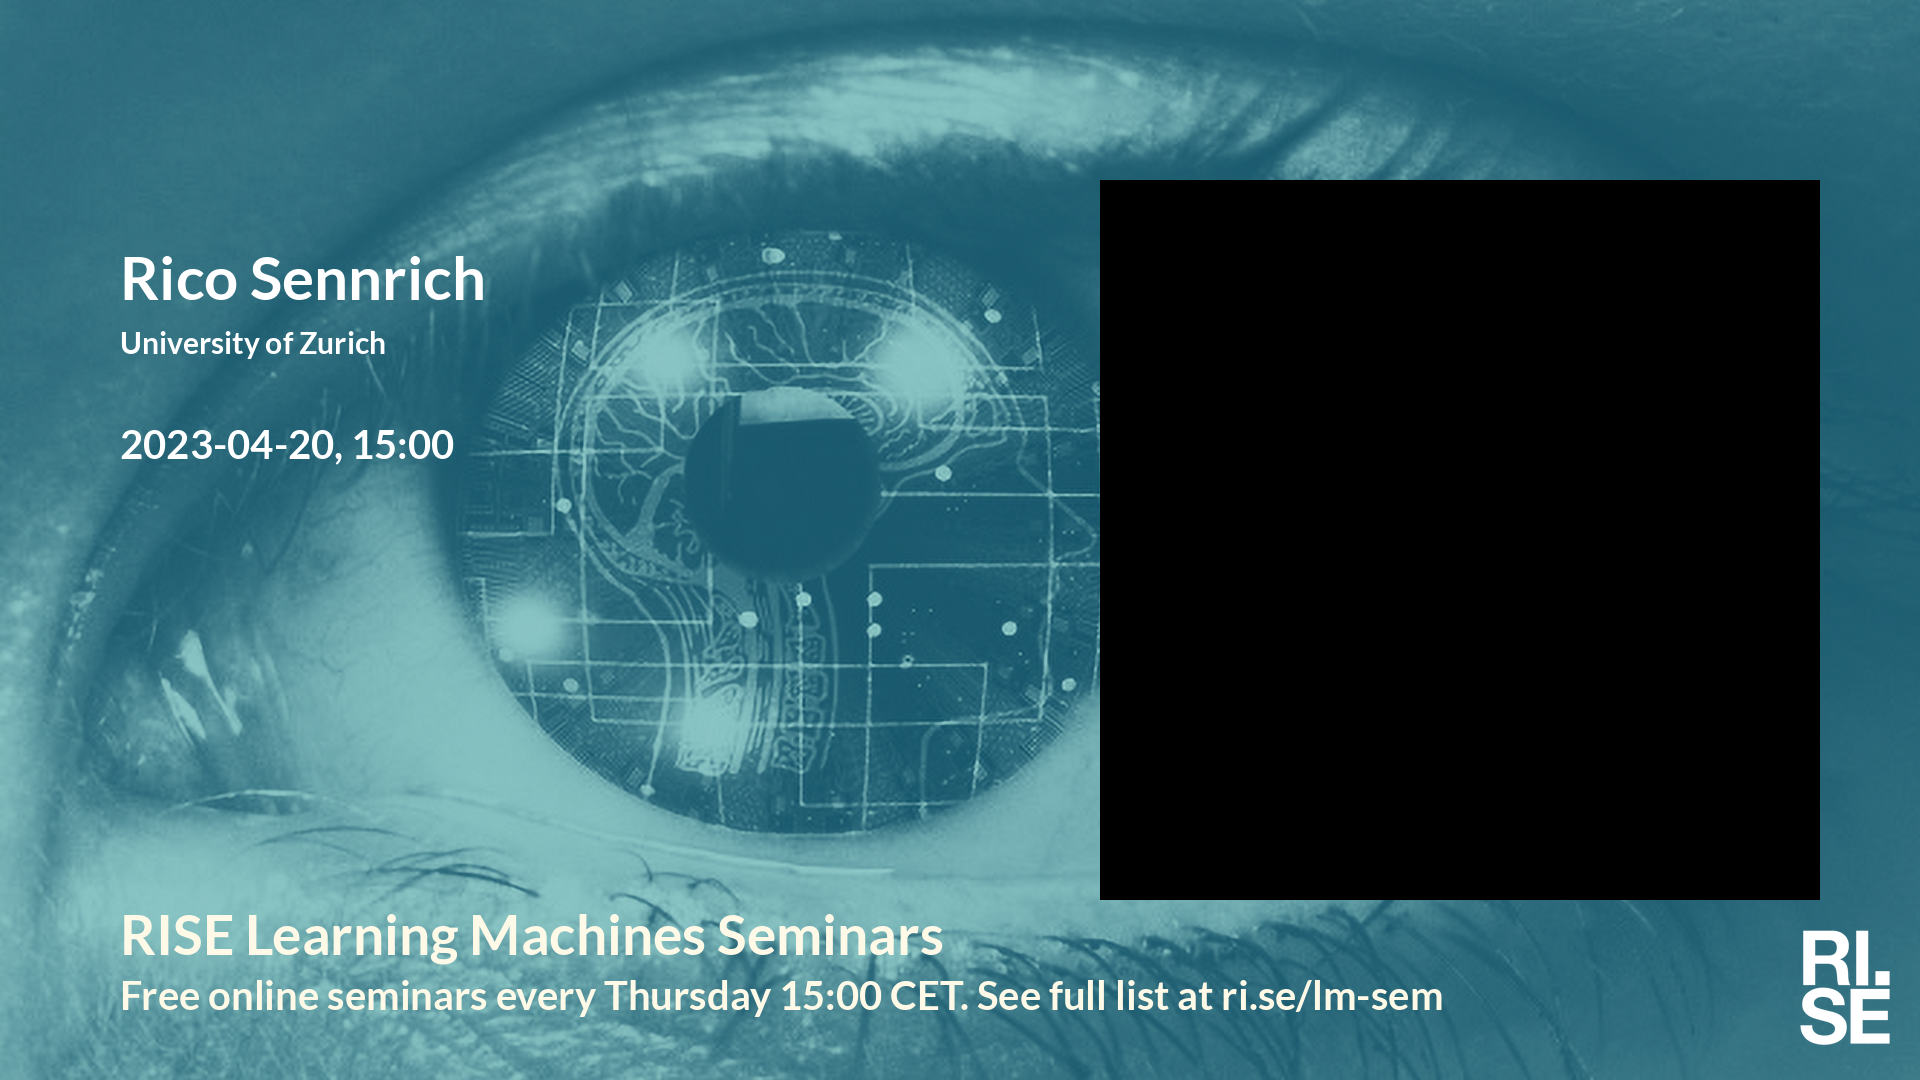
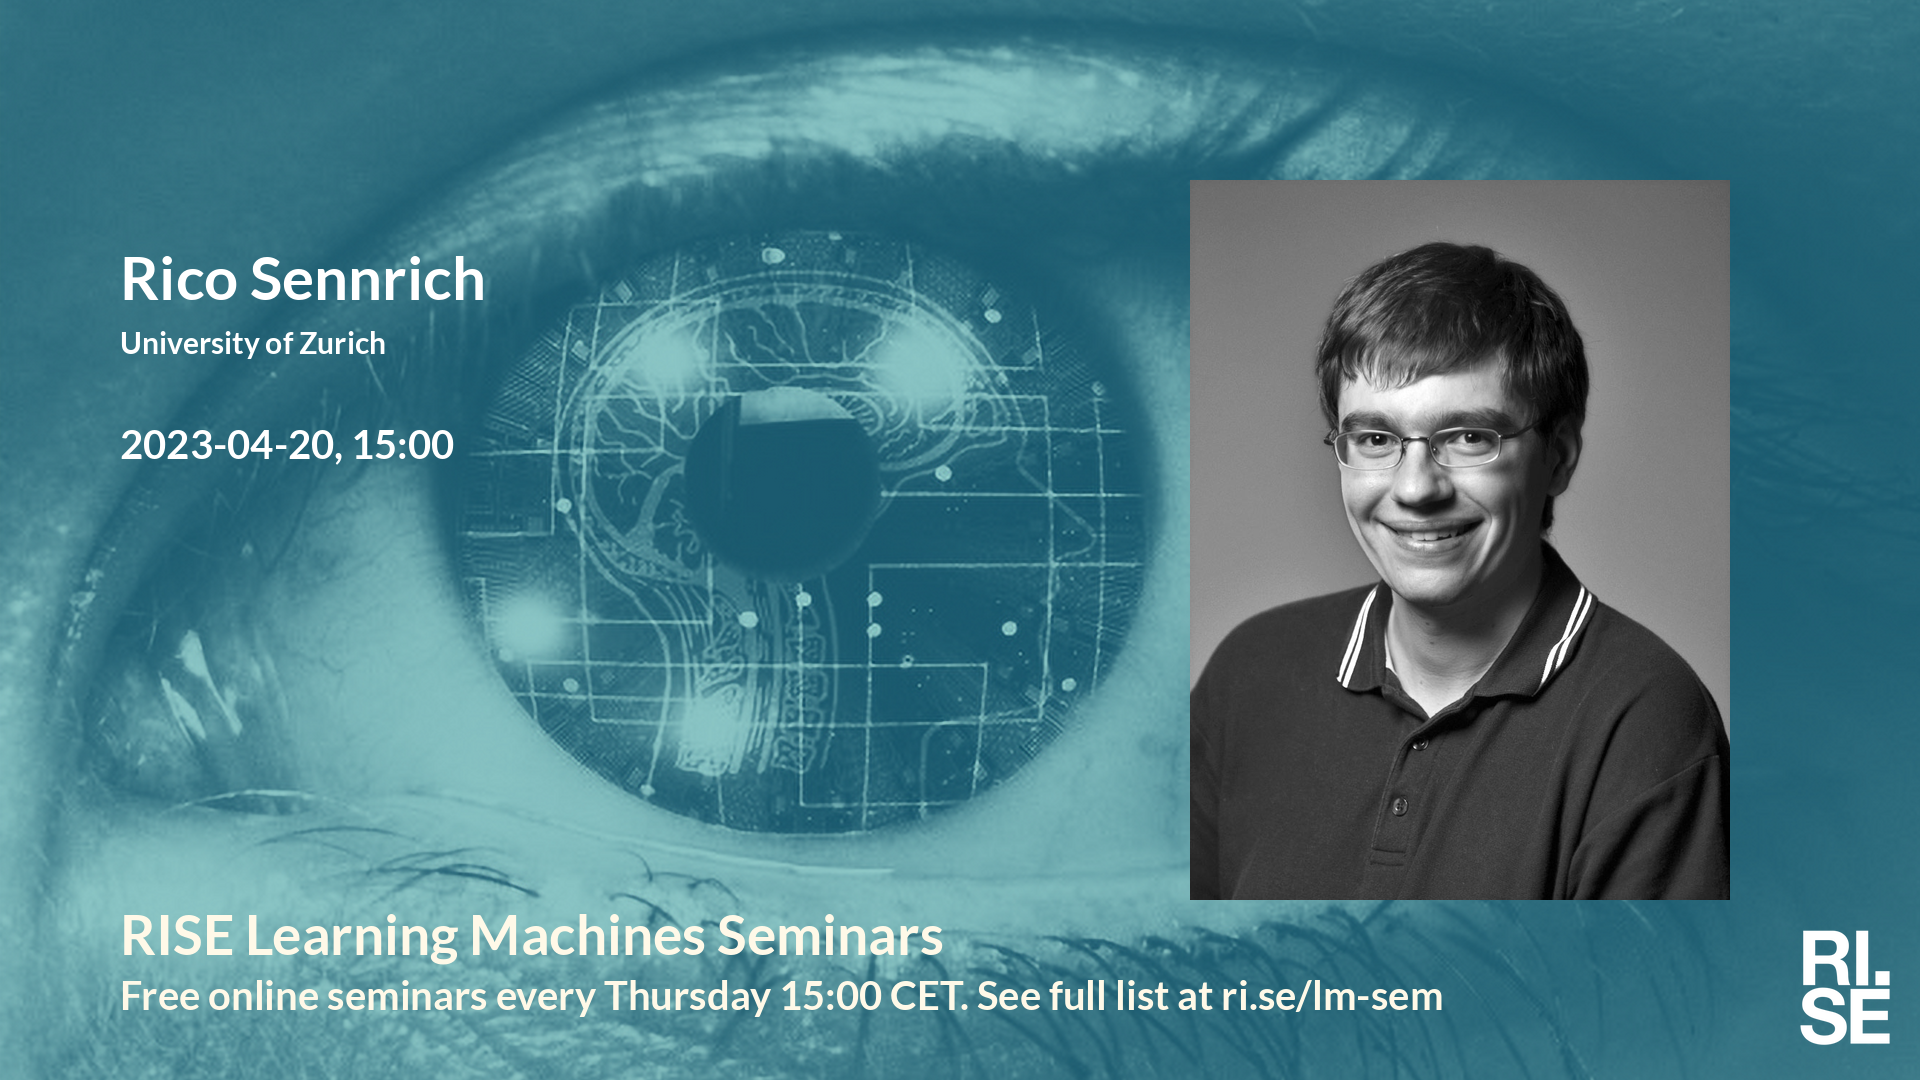
Updated plan on web site.

Changed region(s): [[0.5625, 0.1528, 0.9688, 0.8556]]

diff --git a/lm/index.md b/lm/index.md
@@ -25,7 +25,7 @@ table {border-collapse: collapse;}
 | <span style="color:purple"> 2023-03-30 </span> | <span style="color:purple"> *Up for grabs!!!* </span> | <span style="color:purple">  </span> | <span style="color:purple">  </span> | <span style="color:purple">  </span> | <span style="color:purple">  </span> | <span style="color:purple"> (not confirmed) </span> |
 | <span style="color:red"> 2023-04-06 </span> | <span style="color:red"> Påsklov/Skärtorsdag </span> | <span style="color:red">  </span> | <span style="color:red">  </span> | <span style="color:red">  </span> | <span style="color:red">  </span> | <span style="color:red"> (cancelled) </span> |
 |  2023-04-13  |  [Elijah Cole](2023-04-13.md)  |    |  [social media ](social-media-elijah-cole.png)  |  [meeting backdrop ](meeting-backdrop-elijah-cole.png)  |  [youtube thumbnail ](youtube-thumbnail-elijah-cole.png)  |  (confirmed)     |
-|  2023-04-20  |  [Rico Sennrich, University of Zurich](2023-04-20.md)  |    |  [social media ](social-media-rico-sennrich.png)  |  [meeting backdrop ](meeting-backdrop-rico-sennrich.png)  |  [youtube thumbnail ](youtube-thumbnail-rico-sennrich.png)  |  (confirmed)     |
+|  2023-04-20  |  [Rico Sennrich, University of Zurich](2023-04-20.md)  |  [photo](photo-rico-sennrich.jpg)  |  [social media ](social-media-rico-sennrich.png)  |  [meeting backdrop ](meeting-backdrop-rico-sennrich.png)  |  [youtube thumbnail ](youtube-thumbnail-rico-sennrich.png)  |  (confirmed)     |
 | <span style="color:purple"> 2023-04-27 </span> | <span style="color:purple"> *Up for grabs!!!* </span> | <span style="color:purple">  </span> | <span style="color:purple">  </span> | <span style="color:purple">  </span> | <span style="color:purple">  </span> | <span style="color:purple"> (not confirmed) </span> |
 | <span style="color:purple"> 2023-05-04 </span> | <span style="color:purple"> *Up for grabs!!!* </span> | <span style="color:purple">  </span> | <span style="color:purple">  </span> | <span style="color:purple">  </span> | <span style="color:purple">  </span> | <span style="color:purple"> (not confirmed) </span> |
 | <span style="color:purple"> 2023-05-11 </span> | <span style="color:purple"> *Up for grabs!!!* </span> | <span style="color:purple">  </span> | <span style="color:purple">  </span> | <span style="color:purple">  </span> | <span style="color:purple">  </span> | <span style="color:purple"> (not confirmed) </span> |
